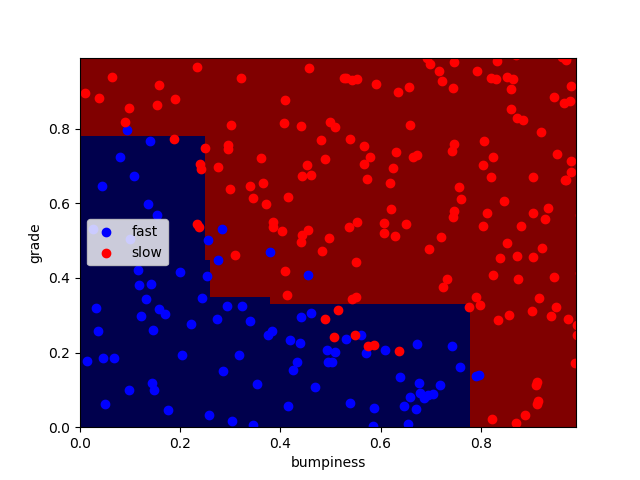
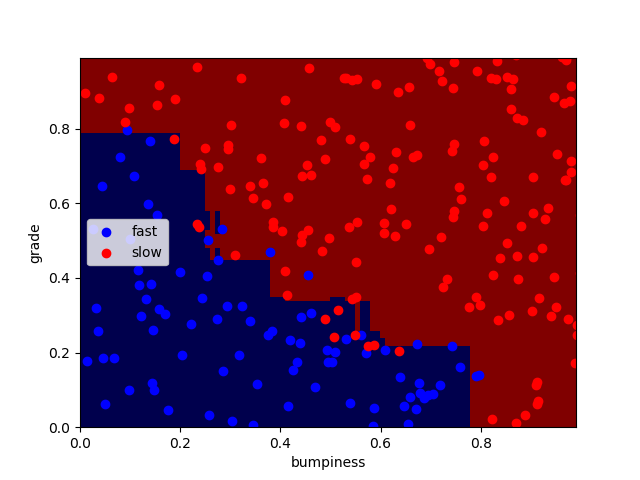
Chap5, AdaBoost
Tried Adaboost algorithm using the same parameters given in the sklearn library. Did not play with the parameters. Accuracy is 0.924

diff --git a/choose_your_own/your_algorithm.py b/choose_your_own/your_algorithm.py
@@ -54,8 +54,7 @@ except NameError:
     pass
 '''
 
-''' Random Forest
-Accuracy obtained is 0.92 '''
+''' Random Forest : Accuracy obtained is 0.92
 
 from sklearn.metrics import accuracy_score
 from sklearn.ensemble import RandomForestClassifier
@@ -66,6 +65,28 @@ acc = accuracy_score(labels_test, pred)
 
 print(acc)
 
+try:
+    prettyPicture(clf, features_test, labels_test)
+except NameError:
+    pass
+'''
+
+
+# AdaBoost Classifier : Accuracy obtained is 0.924
+
+from sklearn.metrics import accuracy_score
+from sklearn.model_selection import cross_val_score
+from sklearn.ensemble import AdaBoostClassifier
+clf = AdaBoostClassifier(n_estimators=100)
+clf.fit(features_train, labels_train)
+pred = clf.predict(features_test)
+acc = accuracy_score(labels_test, pred)
+print(acc)
+
+'''cores = cross_val_score(clf, labels_test, pred)
+scr = scores.mean()
+print(scr)
+'''
 try:
     prettyPicture(clf, features_test, labels_test)
 except NameError:
